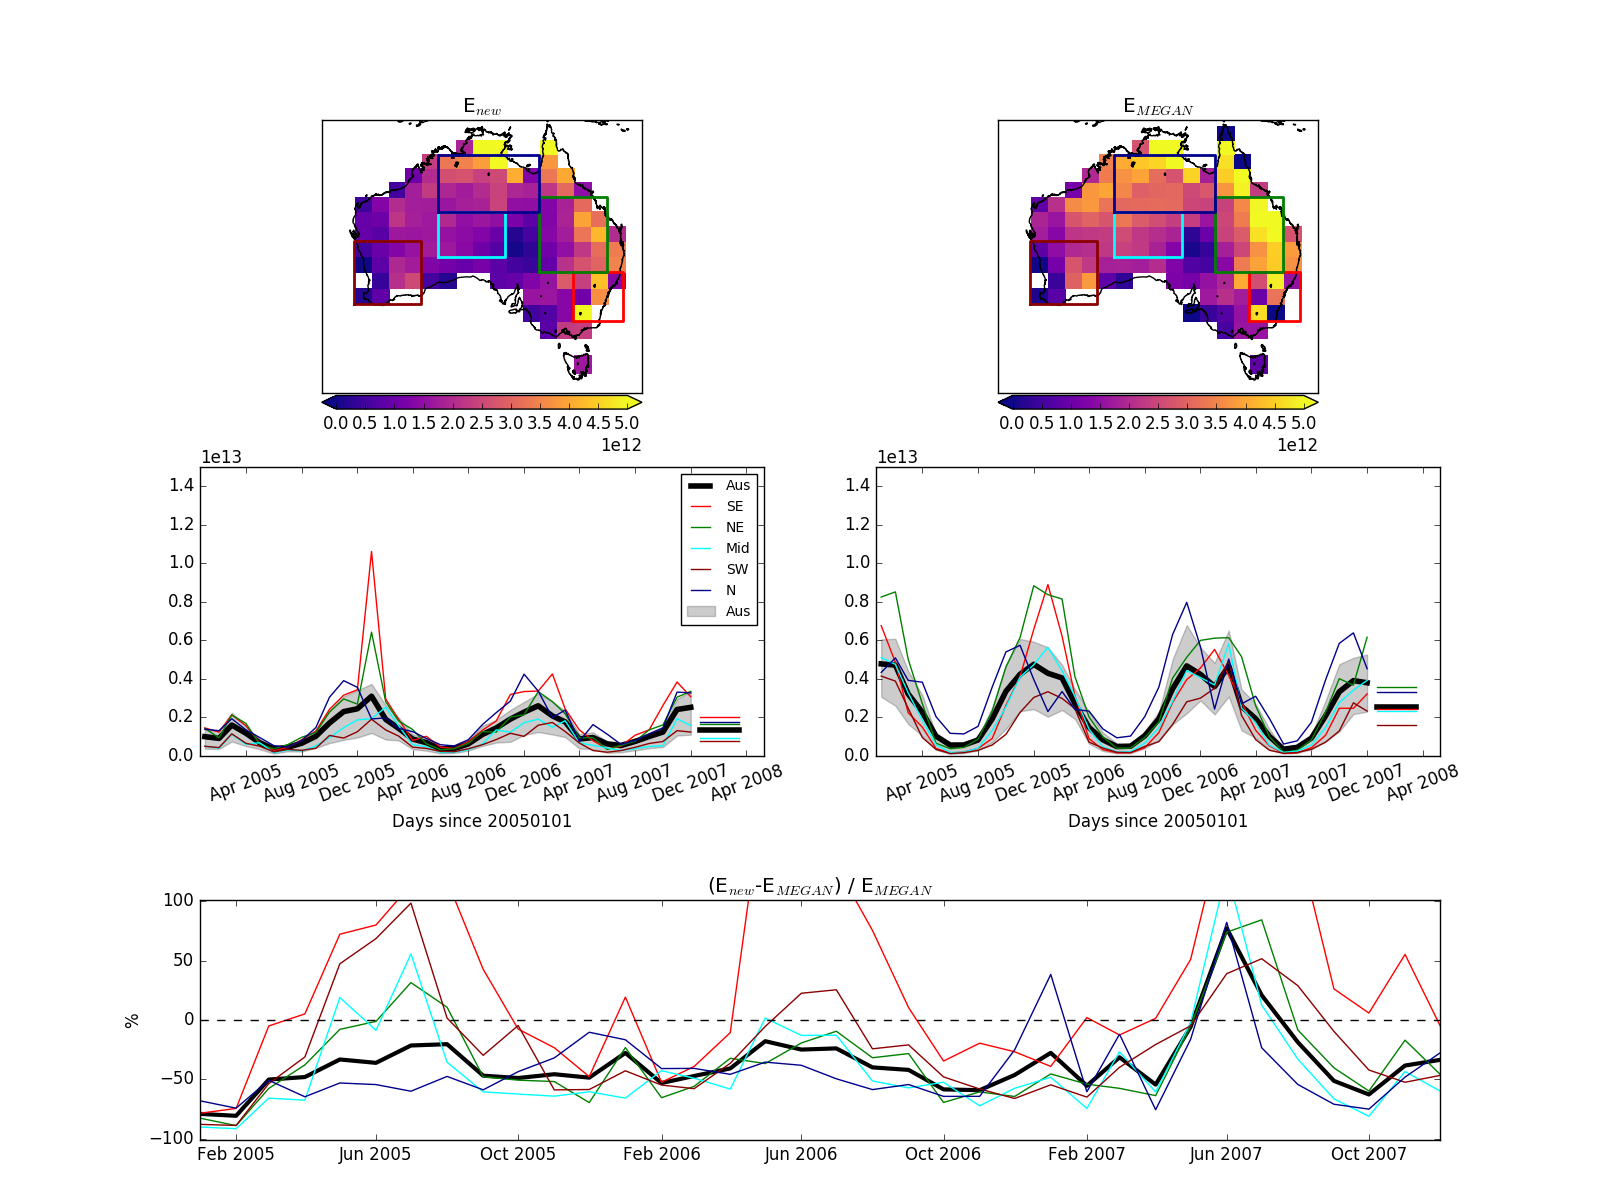
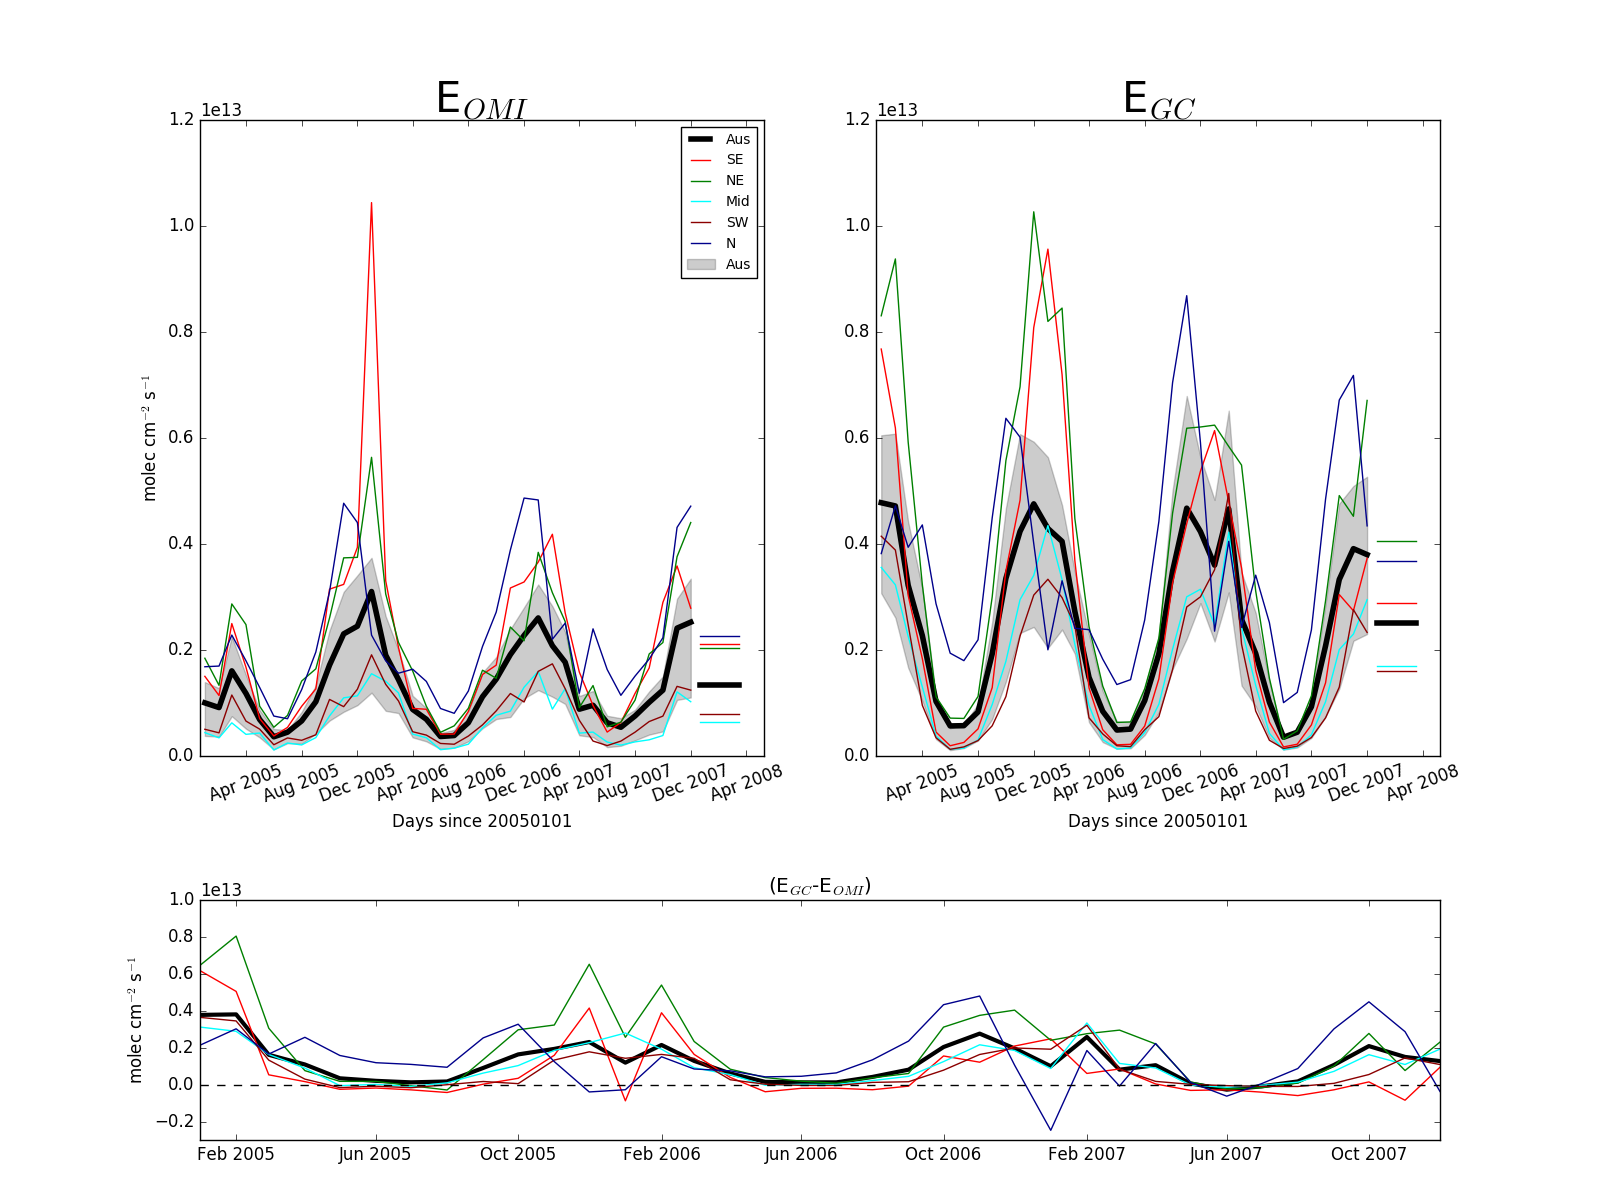
updated E_region_ analysis for results chapter

diff --git a/Analyse_E_isop.py b/Analyse_E_isop.py
@@ -315,8 +315,8 @@ def Emissions_weight():
     Enew.conversion_to_kg
 
 
-def E_regional_time_series(d0=datetime(2005,1,1),dn=datetime(2005,12,31),
-                           etype='pp', lowres=True,
+def E_regional_time_series(d0=datetime(2005,1,1),dn=datetime(2007,12,31),
+                           etype='pp', lowres=True, showmaps=False,
                            force_monthly=True, force_monthly_func='median'):
     '''
         Plot the time series of E_new, compare against MEGAN, etc..
@@ -335,7 +335,7 @@ def E_regional_time_series(d0=datetime(2005,1,1),dn=datetime(2005,12,31),
     ekey= 'E_VCC_'+etype+lrstr
     mstr=['','_monthly'][force_monthly]
     pname='Figs/Emiss/E_zones_%s%s%s.png'%(etype,mstr,lrstr)
-    vmin=0; vmax=1.5e13
+    vmin=0; vmax=1.2e13
 
     # Read in E_new and E_MEGAN
     Enew  = E_new(d0,dn,[ekey,'E_MEGAN'])
@@ -357,33 +357,39 @@ def E_regional_time_series(d0=datetime(2005,1,1),dn=datetime(2005,12,31),
                                          mapvmin=0, mapvmax=5e12,
                                          labelcities=False,labels=labels,
                                          subzones=subzones,colors=colors,
+                                         showmaps=showmaps,
                                          force_monthly=force_monthly, force_monthly_func=force_monthly_func,
-                                         title='E$_{new}$', comparisontitle='E$_{MEGAN}$')
+                                         title='E$_{OMI}$', comparisontitle='E$_{GC}$')
+    axs[0].set_title('E$_{OMI}$',fontsize=30)
+    axs[1].set_title('E$_{GC}$',fontsize=30)
+    axs[0].set_ylabel('molec cm$^{-2}$ s$^{-1}$')
 
     # add row at bottom for differences between Enew and Emeg
     f.subplots_adjust(bottom=0.37)
-    pos2=axs[1].get_position()
-    pos3=axs[3].get_position()
-    for tick in axs[1].get_xticklabels():
+    pos2=axs[0].get_position()
+    pos3=axs[1].get_position()
+    for tick in axs[0].get_xticklabels():
         tick.set_rotation(20)
-    for tick in axs[3].get_xticklabels():
+    for tick in axs[1].get_xticklabels():
         tick.set_rotation(20)
 
     axnew=f.add_axes([pos2.x0, 0.05, pos3.x0 + pos3.width - pos2.x0 , 0.2],) #sharey=axs[3]) # share x axis with time series
+    axs[0].set_ylim([vmin,vmax])
     axs[1].set_ylim([vmin,vmax])
-    axs[3].set_ylim([vmin,vmax])
     plt.sca(axnew)
     # let's plot the difference for each subregion
 
     for i in range(len(series)):
         # plot megan -enew
         lw=[1,3][i==0] # wider black line
-        reldif = 100*(series[i]-series2[i]) / series2[i]
-        plt.plot_date(dates, reldif, fmt='-', color=colors[i], linewidth=lw)
+        absdif = series[i]-series2[i]
+        plt.plot_date(dates, -1*absdif, fmt='-', color=colors[i], linewidth=lw)
+        #reldif = 100*(series[i]-series2[i]) / series2[i]
+        #plt.plot_date(dates, reldif, fmt='-', color=colors[i], linewidth=lw)
 
-    plt.ylim([-101,101])
-    plt.ylabel('%')
-    plt.title('(E$_{new}$-E$_{MEGAN}$) / E$_{MEGAN}$')
+    plt.ylim([-0.3e13, 1e13])
+    plt.ylabel('molec cm$^{-2}$ s$^{-1}$')
+    plt.title('(E$_{GC}$-E$_{OMI}$)')
     plt.plot_date([dates[0],dates[-1]],[0,0],'--k')
 
     f.autofmt_xdate()
@@ -520,7 +526,7 @@ def map_E_new(month=datetime(2005,1,1), GC=None, OMI=None,
     print('SAVED ', pname)
 
 
-def MEGAN_vs_E_new(d0=datetime(2005,1,1), d1=datetime(2005,12,31),
+def MEGAN_vs_E_new(d0=datetime(2005,1,1), d1=datetime(2007,12,31),
                   key='E_VCC_PP_lr',
                   region=pp.__AUSREGION__):
     '''
@@ -1018,7 +1024,7 @@ if __name__=='__main__':
 
     ## Tga summary
     #
-    tga_summary()
+    #tga_summary()
 
 
     ## Plot megan daily cycle vs top-down emissions in several zones
@@ -1027,7 +1033,7 @@ if __name__=='__main__':
     ## Plot MEGAN vs E_new (key)
     ## compare megan to a top down estimate, both spatially and temporally
     ## Ran 17/7/18 for Jenny jan06 check
-    MEGAN_vs_E_new(d0,dn)
+    #MEGAN_vs_E_new(d0,dn)
 
     ## Plot showing comparison of different top-down estimates
     ## In Isop chapter results
@@ -1037,7 +1043,8 @@ if __name__=='__main__':
     ## Plot showing time series within Australia, and Sydney area
     ## In isop chapter results
     ## Ran 7/11/18
-    #with np.warnings.catch_warnings():
+    with np.warnings.catch_warnings():
+        E_regional_time_series()
         #np.warnings.filterwarnings('ignore')
         #for etype in ['gc','omi','pp']:
             #E_regional_multiyear(d0=d0,dn=de, etype=etype)

diff --git a/utilities/plotting.py b/utilities/plotting.py
@@ -790,7 +790,7 @@ def subzones(data, dates, lats, lons, comparison=None, subzones=__subzones_AUS__
              maskoceans=True,
              labelcities=True, labels=None,
              force_monthly=False, force_monthly_func='mean',
-             colors=__subzones_colours__, noplot=False):
+             colors=__subzones_colours__, showmaps=True):
     '''
         Look at map of data[time,lats,lons], draw subzones, show time series over map and subzones
         can clear ocean with maskoceans=True (default).
@@ -799,11 +799,13 @@ def subzones(data, dates, lats, lons, comparison=None, subzones=__subzones_AUS__
     '''
     #region=subzones[0]
     j=int(comparison is not None)
+    ncols=j+1
+    nrows=[1,2][showmaps]
+    # we have one or two rows/columns...
 
     axs=[]
     series=[]
     series2=[]
-    axs.append(plt.subplot(2,j+1,1))
     createmapargs={'vmin':mapvmin, 'vmax':mapvmax, 'clabel':clabel,
                  'title':title, 'suptitle':suptitle, 'linear':linear}
 
@@ -819,8 +821,10 @@ def subzones(data, dates, lats, lons, comparison=None, subzones=__subzones_AUS__
     if comparison is not None:
         comparison_mean=np.nanmean(comparison,axis=0)
 
-    subzones_map(data_mean,lats,lons,subzones=subzones,colors=colors, labelcities=labelcities,
-                 **createmapargs)
+    if showmaps:
+        axs.append(plt.subplot(nrows,ncols,1))
+        subzones_map(data_mean,lats,lons,subzones=subzones,colors=colors, labelcities=labelcities,
+                     **createmapargs)
 
     # For each subset here, plot the timeseries
     if force_monthly:
@@ -834,20 +838,23 @@ def subzones(data, dates, lats, lons, comparison=None, subzones=__subzones_AUS__
         # use date list of monthly midpoints
         dates=monthly_data['dates']
 
-    axs.append(plt.subplot(2,j+1,2+j))
+    pnum = [1,3][nrows>1]
+    if (nrows == 2) and (ncols == 1): pnum=2
+    tsax=plt.subplot(nrows,ncols,pnum)
+    axs.append(tsax)
     series=subzones_TS(data, dates, lats, lons, subzones=subzones,colors=colors,
                        labels=labels, ylims=[vmin,vmax])
 
     if comparison is not None:
-
-        axs.append(plt.subplot(2,2,2))
-        createmapargs['title']=comparisontitle
-        createmapargs['suptitle']=None
-        subzones_map(comparison_mean, lats, lons, labelcities=labelcities,
-                     subzones=subzones,colors=colors,
-                     **createmapargs)
-
-        axs.append(plt.subplot(2,2,4, sharey=axs[1]))
+        if showmaps:
+            axs.append(plt.subplot(nrows,ncols,2))
+            createmapargs['title']=comparisontitle
+            createmapargs['suptitle']=None
+            subzones_map(comparison_mean, lats, lons, labelcities=labelcities,
+                         subzones=subzones,colors=colors,
+                         **createmapargs)
+        pnum=[2,4][showmaps]
+        axs.append(plt.subplot(nrows,ncols,pnum, sharey=tsax))
         series2=subzones_TS(comparison, dates, lats, lons,
                             subzones=subzones, colors=colors,
                             ylims=[vmin,vmax])
